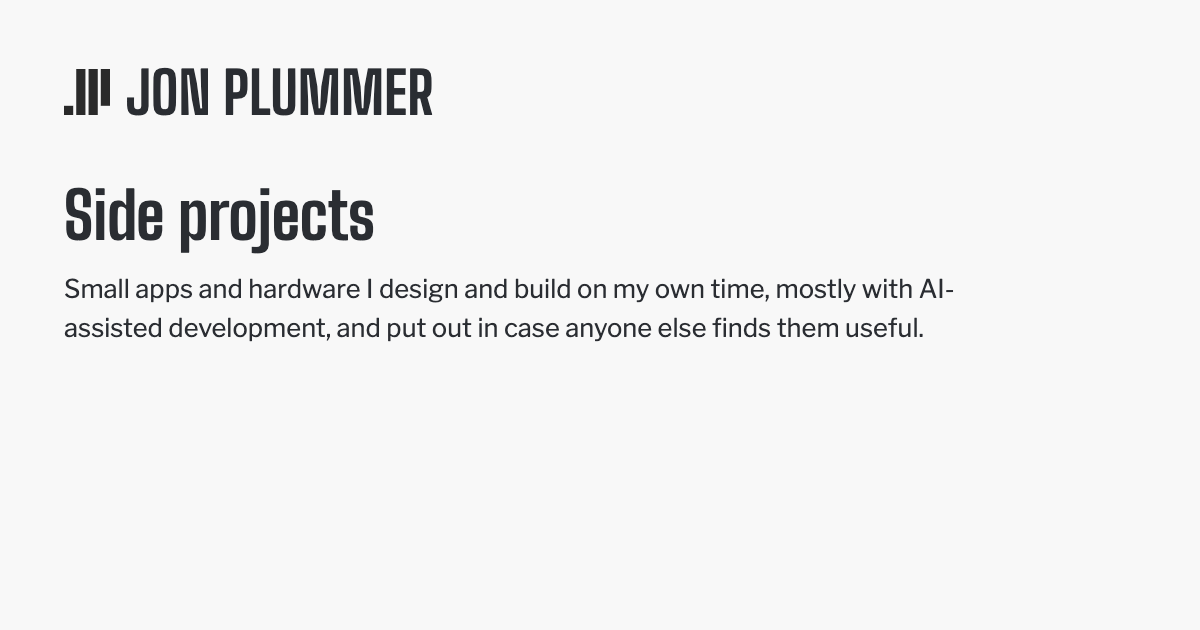
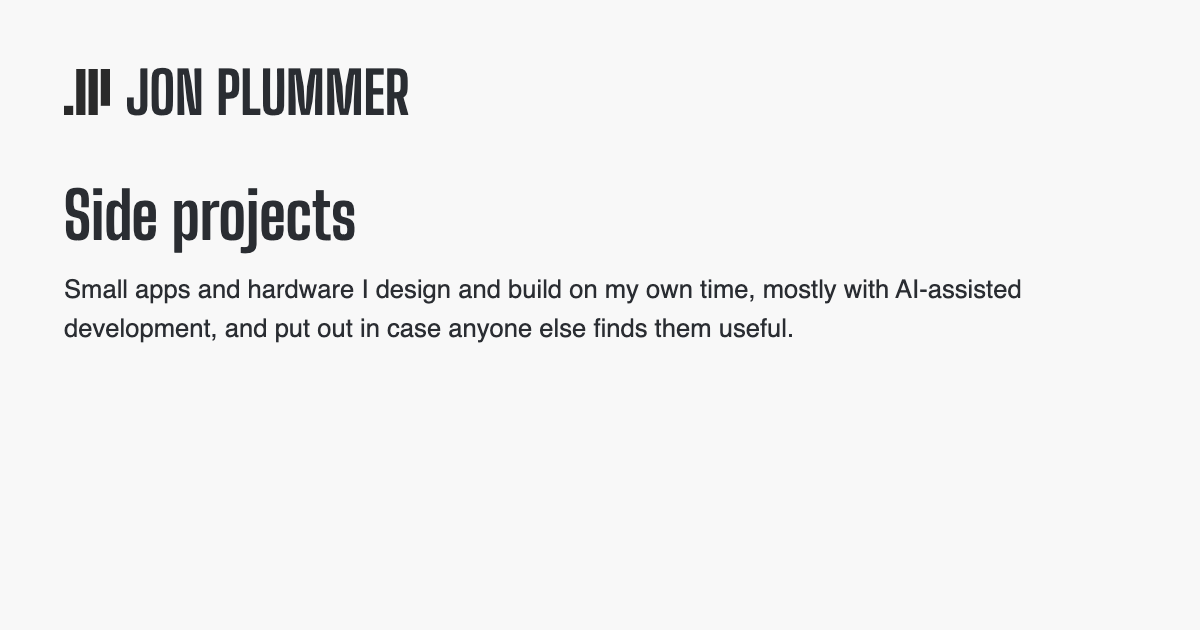
Cleanup: pending copy edits, refreshed demo and OG image, ignore local Claude settings
Copy edits that had been sitting uncommitted:
- wcag-audit.md: description rewritten, and three passages tightened — the
  axe-core caveat now separates what axe found from whether the page is good,
  the design-system point drops a passive construction, and the sampling
  question leads with what can be inherited before what still needs a person.
- friends.md: "where to find your best online" -> "your best self online".

Refreshed src/assets/images/og/sides.png, regenerated and slightly smaller.

Refreshed the Book Map demo from erindouglass-bookmap at c42f06a, which gives
the preview panel's 28 buttons an explicit type="button". Without it they default
to type="submit" and html-validate fails the built page. Note that `pnpm run test
fast` reads _site, so a stale build will keep reporting those 28 until you
rebuild.

Ignoring .claude/settings.local.json — local permission state, not shared config.

Claude-Session: https://claude.ai/code/session_015qABq44Toc93tL2Egan9B9

diff --git a/src/assets/demos/erindouglass-bookmap/index.html b/src/assets/demos/erindouglass-bookmap/index.html
@@ -384,7 +384,7 @@
     
     <!-- Combined Style Panel (preview mode only) -->
     <div class="style-panel" id="stylePanel">
-        <button class="panel-toggle" onclick="togglePanel()">
+        <button type="button" class="panel-toggle" onclick="togglePanel()">
             <span>Map & Pin Styles</span>
             <span class="toggle-icon">▼</span>
         </button>
@@ -394,39 +394,39 @@
             <div class="panel-section">
                 <h3>Pin Styles</h3>
                 <div class="pin-grid">
-            <button class="pin-btn" data-pin="default" onclick="switchPinStyle('default')">Blue Pin</button>
-            <button class="pin-btn active" data-pin="burgundy_circle" onclick="switchPinStyle('burgundy_circle')">Burgundy Circle</button>
-            <button class="pin-btn" data-pin="black_circle" onclick="switchPinStyle('black_circle')">Black Circle</button>
-            <button class="pin-btn" data-pin="small_burgundy_pin" onclick="switchPinStyle('small_burgundy_pin')">Burgundy Drop</button>
-            <button class="pin-btn" data-pin="small_orange_pin" onclick="switchPinStyle('small_orange_pin')">Orange Drop</button>
-            <button class="pin-btn" data-pin="pushpin_emoji" onclick="switchPinStyle('pushpin_emoji')">Pushpin 📌</button>
+            <button type="button" class="pin-btn" data-pin="default" onclick="switchPinStyle('default')">Blue Pin</button>
+            <button type="button" class="pin-btn active" data-pin="burgundy_circle" onclick="switchPinStyle('burgundy_circle')">Burgundy Circle</button>
+            <button type="button" class="pin-btn" data-pin="black_circle" onclick="switchPinStyle('black_circle')">Black Circle</button>
+            <button type="button" class="pin-btn" data-pin="small_burgundy_pin" onclick="switchPinStyle('small_burgundy_pin')">Burgundy Drop</button>
+            <button type="button" class="pin-btn" data-pin="small_orange_pin" onclick="switchPinStyle('small_orange_pin')">Orange Drop</button>
+            <button type="button" class="pin-btn" data-pin="pushpin_emoji" onclick="switchPinStyle('pushpin_emoji')">Pushpin 📌</button>
                 </div>
             </div>
             
             <div class="panel-section">
                 <h3>Map Tiles</h3>
                 <div class="style-grid">
-            <button class="style-btn active" data-style="watercolor" onclick="switchStyle('watercolor')">Watercolor</button>
-            <button class="style-btn" data-style="alidade_smooth" onclick="switchStyle('alidade_smooth')">Alidade</button>
-            <button class="style-btn" data-style="alidade_smooth_dark" onclick="switchStyle('alidade_smooth_dark')">Alidade Dark</button>
-            <button class="style-btn" data-style="alidade_bright" onclick="switchStyle('alidade_bright')">Alidade Bright</button>
-            <button class="style-btn" data-style="alidade_satellite" onclick="switchStyle('alidade_satellite')">Stadia Satellite</button>
-            <button class="style-btn" data-style="toner" onclick="switchStyle('toner')">Toner</button>
-            <button class="style-btn" data-style="toner_lite" onclick="switchStyle('toner_lite')">Toner Lite</button>
-            <button class="style-btn" data-style="toner_background" onclick="switchStyle('toner_background')">Toner BG</button>
-            <button class="style-btn" data-style="terrain" onclick="switchStyle('terrain')">Terrain</button>
-            <button class="style-btn" data-style="terrain_background" onclick="switchStyle('terrain_background')">Terrain BG</button>
-            <button class="style-btn" data-style="outdoors" onclick="switchStyle('outdoors')">Outdoors</button>
-            <button class="style-btn" data-style="osm_bright" onclick="switchStyle('osm_bright')">OSM Bright</button>
-            <button class="style-btn" data-style="osm" onclick="switchStyle('osm')">OSM</button>
-            <button class="style-btn" data-style="osm_de" onclick="switchStyle('osm_de')">OSM DE</button>
-            <button class="style-btn" data-style="humanitarian" onclick="switchStyle('humanitarian')">HOT</button>
-            <button class="style-btn" data-style="cyclosm" onclick="switchStyle('cyclosm')">CyclOSM</button>
-            <button class="style-btn" data-style="opentopomap" onclick="switchStyle('opentopomap')">TopoMap</button>
-            <button class="style-btn" data-style="esri_world" onclick="switchStyle('esri_world')">Esri Satellite</button>
-            <button class="style-btn" data-style="esri_world_street" onclick="switchStyle('esri_world_street')">Esri Street</button>
-            <button class="style-btn" data-style="esri_world_topo" onclick="switchStyle('esri_world_topo')">Esri Topo</button>
-            <button class="style-btn" data-style="esri_natgeo" onclick="switchStyle('esri_natgeo')">Nat Geo</button>
+            <button type="button" class="style-btn active" data-style="watercolor" onclick="switchStyle('watercolor')">Watercolor</button>
+            <button type="button" class="style-btn" data-style="alidade_smooth" onclick="switchStyle('alidade_smooth')">Alidade</button>
+            <button type="button" class="style-btn" data-style="alidade_smooth_dark" onclick="switchStyle('alidade_smooth_dark')">Alidade Dark</button>
+            <button type="button" class="style-btn" data-style="alidade_bright" onclick="switchStyle('alidade_bright')">Alidade Bright</button>
+            <button type="button" class="style-btn" data-style="alidade_satellite" onclick="switchStyle('alidade_satellite')">Stadia Satellite</button>
+            <button type="button" class="style-btn" data-style="toner" onclick="switchStyle('toner')">Toner</button>
+            <button type="button" class="style-btn" data-style="toner_lite" onclick="switchStyle('toner_lite')">Toner Lite</button>
+            <button type="button" class="style-btn" data-style="toner_background" onclick="switchStyle('toner_background')">Toner BG</button>
+            <button type="button" class="style-btn" data-style="terrain" onclick="switchStyle('terrain')">Terrain</button>
+            <button type="button" class="style-btn" data-style="terrain_background" onclick="switchStyle('terrain_background')">Terrain BG</button>
+            <button type="button" class="style-btn" data-style="outdoors" onclick="switchStyle('outdoors')">Outdoors</button>
+            <button type="button" class="style-btn" data-style="osm_bright" onclick="switchStyle('osm_bright')">OSM Bright</button>
+            <button type="button" class="style-btn" data-style="osm" onclick="switchStyle('osm')">OSM</button>
+            <button type="button" class="style-btn" data-style="osm_de" onclick="switchStyle('osm_de')">OSM DE</button>
+            <button type="button" class="style-btn" data-style="humanitarian" onclick="switchStyle('humanitarian')">HOT</button>
+            <button type="button" class="style-btn" data-style="cyclosm" onclick="switchStyle('cyclosm')">CyclOSM</button>
+            <button type="button" class="style-btn" data-style="opentopomap" onclick="switchStyle('opentopomap')">TopoMap</button>
+            <button type="button" class="style-btn" data-style="esri_world" onclick="switchStyle('esri_world')">Esri Satellite</button>
+            <button type="button" class="style-btn" data-style="esri_world_street" onclick="switchStyle('esri_world_street')">Esri Street</button>
+            <button type="button" class="style-btn" data-style="esri_world_topo" onclick="switchStyle('esri_world_topo')">Esri Topo</button>
+            <button type="button" class="style-btn" data-style="esri_natgeo" onclick="switchStyle('esri_natgeo')">Nat Geo</button>
                 </div>
             </div>
 

diff --git a/src/friends.md b/src/friends.md
@@ -9,32 +9,32 @@ ogImage: /assets/images/og/friends.png
 ---
 Updated {{ date | postDate }}. Inspired by [slashfriends.org](https://slashfriends.org) and [Nick Gray](https://nickgray.net), this is a growing list of people I like and admire, all of whom I've worked with in some way. Long ago I had lists of "heroes" and "villains" on my site – heroes were people I admired from afar, and villains were friends. People are the real world-wide-web, after all. As it turns out, the heroes list is impossible to maintain and the villains list is never complete.
 
-Don't want to be on this list? Tell me and I'll take you off. Think you belong here and I missed you, or got your link wrong? Let me know where to find your best online.
+Don't want to be on this list? Tell me and I'll take you off. Think you belong here and I missed you, or got your link wrong? Let me know where to find your best self online.
 
-- [Bob Cowell](https://bobcowell.com) – Accessibility specialist I worked alongside at Concentric Sky.
-- [Bren Plummer, DMA](https://brenplummer.com) – Principal bassist with the Yakima Symphony Orchestra, among many other groups.
-- [Caitlyn Holland](https://caitlynholland.com) – Product designer running her own design practice.
+- [Bob Cowell](https://bobcowell.com) – Quality and accessibility specialist I happily worked alongside at Concentric Sky, and illustrator extraordinaire.
+- [Bren Plummer, DMA](https://brenplummer.com) – Principal bassist with the Yakima Symphony Orchestra and many other groups.
+- [Caitlyn Holland](https://caitlynholland.com) – Senior product designer running her own design practice.
 - [Catherine Arias](https://www.linkedin.com/in/catherineariasla/) – Director of Education at MOCA (Museum of Contemporary Art).
 - [Devon Berger](https://devonberger.com) – UX team lead at Assembled.
 - [Douglas McLaughlin](https://ux.dougmclaughlin.com) – UX/UI design and strategy consultant.
-- [Erin Douglass](https://erindouglass.com) – Contributing reviewer at The Christian Science Monitor.
+- [Erin Douglass](https://erindouglass.com) – Contributing book reviewer at The Christian Science Monitor.
 - [Evren Holland](https://circle.4ward.earth/u/7a22d45a) – Founder and CEO of Yggdrasil Trees.
 - [Greg Barnett](https://nabuwines.com) – Founder of Barnett Creative, Nabu Wines, and the erstwhile Rock'n'Motion Design.
 - [Gwen Frederick](https://gwenfred.com) – Product designer at Paramount+.
 - [Harold Mann](https://mann.com) – President of Mann Consulting and the guy who gave me my first real tech job.
 - [Jaemi Aoh](https://jaemiaoh.portfolio.site/) – Creative director at Beaumont.
-- [Jake Rowe](https://jakerowedesigns.com) – Senior UX designer I worked with at Invoca.
+- [Jake Rowe](https://jakerowedesigns.com) – Senior UX designer I happily worked with at Invoca.
 - [Jean-Paul Bondy](https://jbondy.com) – Director of product design at Pixel Pushers.
-- [Joey Bruckner](https://joeybruckner.com) – Lead Project Manager at ICF and Airbnb superhost, don't let the out-of-date resume fool you.
+- [Joey Bruckner](https://joeybruckner.com) – Lead Project Manager at ICF, and Airbnb superhost; don't let the ancient resume fool you.
 - [Julie Power Pantiskas](https://www.flavorofcalifornia.com/) – CEO of The Flavor of California.
 - [Kathryn Petek](https://www.shannonwilson.com/people/188252) – VP and geotechnical engineer at Shannon & Wilson.
 - [Linda Wanczyk](https://lindawanczyk.com) – Design consultant and artist running her own studio, Linda Wanczyk Design.
-- [Louis Elfman](https://www.instagram.com/louiselfman/) – Longtime connection, currently considering whether to make his next project about photography or about tea.
+- [Louis Elfman](https://www.instagram.com/louiselfman/) – Longtime industry friend, currently considering whether to make his next project about photography or about tea.
 - [Megan Fister](https://steadyhousehold.com/full-story/) – Founder of Steady Household.
 - [Miki Markovich](https://mikimarkovich.com) – Content and creative strategist at Obie Companies.
 - [Nancy Mayer Allan](https://www.nancymayerallan.com/) – Artist and interior designer.
 - [Nate Kraft](https://www.linkedin.com/in/natekraft/) – Chief product officer at Enginuity Power Systems.
-- [Peter Merholz](https://petermerholz.com) – Design leadership voice, co-host of the Finding Our Way podcast.
+- [Peter Merholz](https://petermerholz.com) – Design leadership voice, co-host of the Finding Our Way podcast, and the guy I asked for advice right before getting involved in the first dot-com boom.
 - [Peter Taylor](https://petertconnects.com/) – CEO of Real Time Intelligence.
 - [Prajna Cole](https://prajnacole.com) – Associate marriage and family therapist at Family Matters of Marin.
 - [Ryan Kim](https://www.linkedin.com/in/ryanykim23/) – CEO of Phyn.

diff --git a/src/sides/wcag-audit.md b/src/sides/wcag-audit.md
@@ -1,6 +1,6 @@
 ---
 title: wcag-audit
-description: A tool that checks a page against all 87 WCAG 2.2 criteria and traces every verdict to a named W3C rule, not a plain pass or fail.
+description: A tool that checks a page against all 87 WCAG 2.2 criteria and, for each one, names the W3C rule behind the verdict.
 date: 2026-08-09
 layout: layouts/side_detail.njk
 tags: sideproject
@@ -17,7 +17,7 @@ wcag-audit uses [axe-core](https://github.com/dequelabs/axe-core) to check a pag
 
 Yes, it's ugly. Pretty will come later.
 
-28 isn't very many; there are 87 WCAG success criteria. But most of those require some sort of human judgement. I'd like to get to where we can check all 87, even in a rudimentary way, with the help of AI, but I'm starting small. And the 28 that get any automated check are graded partially – a clean axe-core run means axe found nothing, not that the page is good.
+28 isn't very many; there are 87 WCAG success criteria. But most of those require some sort of human judgement. I'd like to get to where we can check all 87, even in a rudimentary way, with the help of AI, but I'm starting small. And the 28 that get any automated check are graded partially – a clean axe-core run means axe found nothing. That's a weaker claim than "the page is good."
 
 ## How it works
 
@@ -32,13 +32,13 @@ The first real test: the W3C's own [demo page](https://www.w3.org/WAI/demos/bad/
 ![The W3C's own "before" demo page, and four of the seven different axe rules it fails on – contrast, missing alt text, an unlabeled nav link, an unlabeled menu.](/assets/images/2026/09/wcag-audit-demo-snap.jpg)
 *Seven rules fired on W3C's sample inaccessible page - contrast, missing alt text, unlabeled links, unlabeled form controls, missing landmarks, etc.*
 
-Then I pointed it at this site and it found five failures of its own: the low-contrast red-on-gray pairing on the nav links and the paging navigation that I mentioned above. Critically, this is reported on as one problem rather than each individual instance being a separate finding. The idea here is to make it clear what problems you might sort out by fixing your design system or pattern library versus what might require more local attention.
+Then I pointed it at this site and it found five failures of its own: the low-contrast red-on-gray pairing on the nav links and the paging navigation that I mentioned above. Critically, this gets reported as one problem, with every instance rolled into it. The idea is to make it clear what problems you might sort out by fixing your design system or pattern library versus what might require more local attention.
 
 [Target size](https://www.w3.org/WAI/WCAG22/Understanding/target-size-minimum.html) and [focus visibility](https://www.w3.org/WAI/WCAG22/Understanding/focus-appearance.html) now get measured directly from a fresh pass over every clickable element's geometry instead of being guessed from a screenshot. That helped with five of six criteria that I was stuck on. The remaining one, when a focus ring is drawn with box-shadow instead of outline, which can't be read from computed style, still needs a person. The report now points this out.
 
 ## What's next
 
-Phase one, still in work, evaluates one page. Later phases, in design now, will cover a whole site: sampling pages by template, clustering findings that repeat across pages, and working toward [Accessibility Conformance Report (ACR)](https://www.itic.org/policy/accessibility/vpat)-style output. How much of that sampling still needs a person's judgment, rather than a verdict inherited from a matching page, is an open question.
+Phase one, still in work, evaluates one page. Later phases, in design now, will cover a whole site: sampling pages by template, clustering findings that repeat across pages, and working toward [Accessibility Conformance Report (ACR)](https://www.itic.org/policy/accessibility/vpat)-style output. How much of that sampling can borrow a verdict from a matching page, and how much still needs a person's judgment, is an open question.
 
 The registry format, the evidence schema, and what's deliberately out of scope for phase one are in the repo's README and design docs.
 
